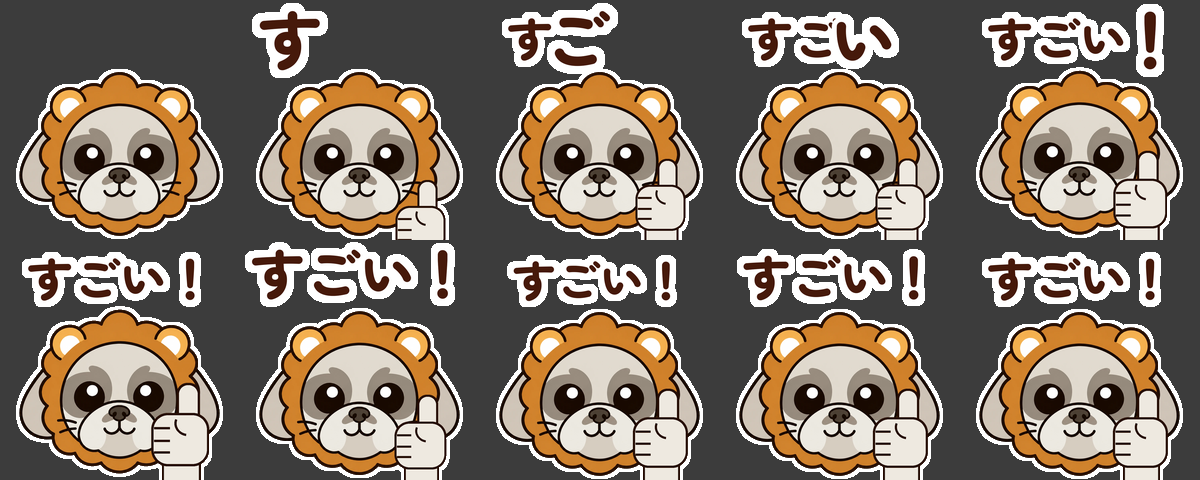
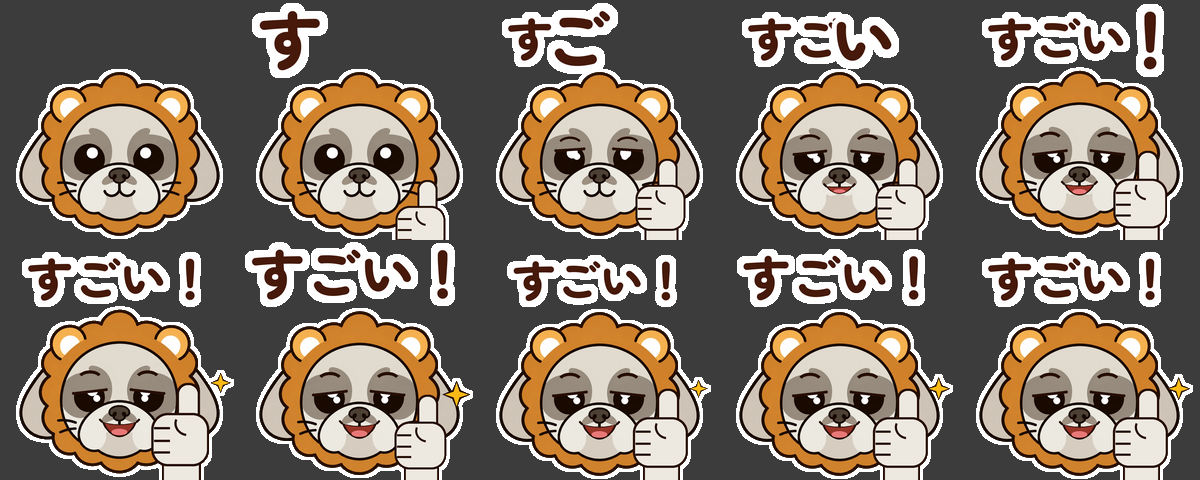
Give the 'sugoi' sticker a confident smug expression
Half-lidded eyes, raised arched brows, a wide open grin and a sparkle
at the thumb tip, changing gradually with the thumbs-up motion.

Claude-Session: https://claude.ai/code/session_01KX3WDfyPkAofSs6dqvGAmw

diff --git a/.claude/skills/stamp-create/SKILL.md b/.claude/skills/stamp-create/SKILL.md
@@ -85,6 +85,7 @@ print(ms.verify("assets/gif/名前.gif"))                     # 検証
 - パーツは元の絵の輪郭線の色（こげ茶）と太さに合わせ、塗りは元の絵にある色から選ぶ。
 - 表情を変えるときは、消したい線（笑った口など）を周りの色で塗りつぶしてから新しい線を描く。
 - 驚き顔は**白目を見せない**（ユーザーの好み）。黒目を少しずつ小さくし（ハイライトは残す）、眉を小さく短くしながら上げて目元を変える。元の黒目は、目の周りの模様の色を測ってその色の単色で塗りつぶしてから描き直す（ぼかしで埋めるとにじみが出る）。
+- 自信たっぷりの「ドヤ顔」は、まぶたを**半分ほど**下ろした半目（下ろしすぎると眠そう・不機嫌に見える）＋まぶたの下に白い光を残す＋**高く上がった弓なりの眉**（眉を寄せると怒り顔になる）＋口角の上がった大きく開いた笑顔。決めの瞬間に、黄色い「キラッ」を添えると伝わりやすい。
 - 前足の毛は**顔の色に寄せて少し白くした色**（例 RGB 238,233,224。真っ白にしない）で**画面の下から**せり上がらせ、手のひら側を見せる。手のひらは大きめにし、肉球は黒っぽい色（例 RGB 62,50,42。鼻の色より少し濃い）で、大きな肉球1つと指先の小さな肉球3つにする。
 - 新しく文字を入れるときは、丸くて太い書体「Zen Maru Gothic Black」（無料・商用利用可の OFL ライセンス）を使う。`curl -sSL -o 作業用フォルダ/ZenMaruGothic-Black.ttf https://raw.githubusercontent.com/google/fonts/main/ofl/zenmarugothic/ZenMaruGothic-Black.ttf` で取得できる（github.com の URL は通らない）。文字色はこげ茶（RGB 70,25,10）、白い太フチ（`stroke_width` 18 前後）を付ける。大きく弾む文字は画面の上で切れやすいので、確認用シートで確かめる。
 - 画面の外から入ってくるパーツは、切り抜き範囲（`crop`）を固定にして、端で切れて見えるようにする。
@@ -96,7 +97,7 @@ print(ms.verify("assets/gif/名前.gif"))                     # 検証
   `0, 中間(0→1), 1, 1, 中間(1→0), 0, 中間(0→1), 1, 1, 中間(1→0), 0, 0`
 - **うなずき（画像1枚だけ）**：`{"key":0}` → `{"key":0,"dy":10,"sy":0.97}` → `{"key":0,"dy":18,"sy":0.95}` → `{"key":0,"dy":10}` → `{"key":0}` を必要な回数くり返す
 - **びっくり（画像1枚＋描き足し）**：画面の下から顔の色に近い白っぽい前足が頬の横へ（4コマ）→ 黒目と眉が小さくなり、眉が上がり、口が「お」の形へ少しずつ変化（3〜4コマ）→ 体が少し跳ねて「！」が弾んで出現（4〜5コマ）→ 最後のコマを長めに表示
-- **すごい！（画像1枚＋描き足し＋文字）**：画面の下から親指を立てた前足がせり上がる → 前に突き出す（大きさ 1.08 → 1.16）。文字は「す・ご・い・！」が1コマに1文字ずつ大きく（1.4倍）弾んで並び、そのあと「すごい！」全体が `1.18 → 0.94 → 1.05 → 1.0` と弾む → 決めポーズで長めに止める（10コマ・3秒）
+- **すごい！（画像1枚＋描き足し＋文字）**：画面の下から親指を立てた前足がせり上がる → 前に突き出す（大きさ 1.08 → 1.16）。同時に表情がだんだんドヤ顔に変わり、親指の先に「キラッ」。文字は「す・ご・い・！」が1コマに1文字ずつ大きく（1.4倍）弾んで並び、そのあと「すごい！」全体が `1.18 → 0.94 → 1.05 → 1.0` と弾む → 決めポーズで長めに止める（10コマ・3秒）
 - **跳ねる（画像1枚）**：`sy:0.92, sx:1.05`（しゃがむ）→ `dy:-20`（跳ぶ）→ `dy:-28` → `dy:-20` → 着地 `sy:0.94` → 元に戻る
 - **左右に揺れる（画像1枚）**：`rot` を `0 → 6 → 0 → -6 → 0` の順にする
 - 1ループの秒数 = コマ数 × `frame_ms`。8〜15コマに収まるように `frame_ms`（120〜250ms）で調整する
